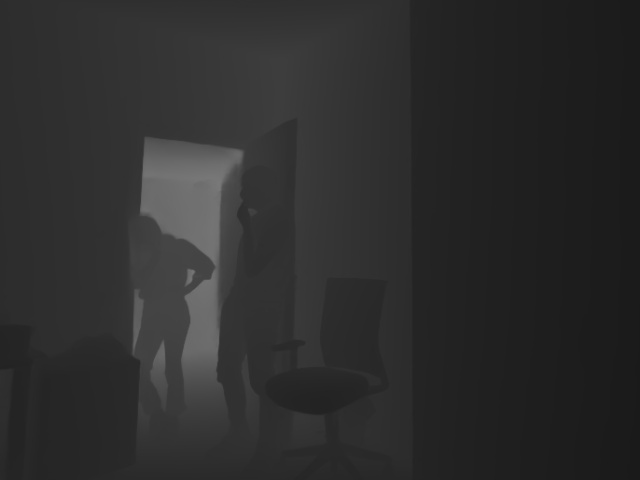
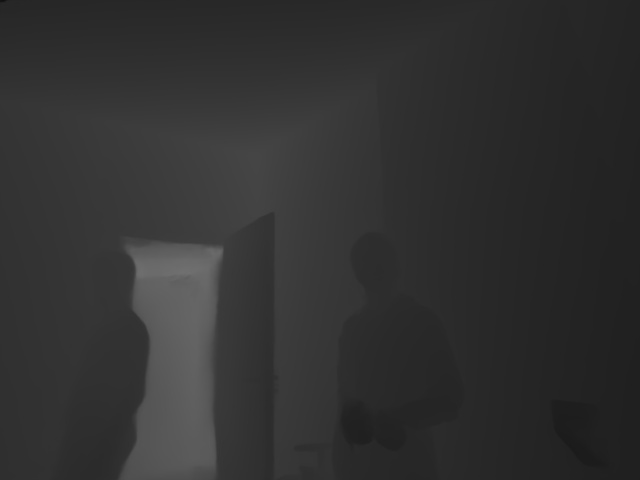
vertical pitch angle joint, code cleanup

Changed region(s): [[0.1875, 0.2812, 0.375, 1.0]]

diff --git a/stiching.py b/stiching.py
@@ -1,0 +1,145 @@
+import os
+import cv2
+import numpy as np
+import json
+import torch
+from ultralytics import YOLO
+from ultralytics import SAM
+import sys
+sys.path.append('/home/g/gajdosech2/Depth-Anything-V2/metric_depth')
+from depth_anything_v2.dpt import DepthAnythingV2
+
+
+IMG_WIDTH = 640
+IMG_HEIGHT = 480
+PANORAMA_WIDTH = 1700
+PANORAMA_HEIGHT = 700
+
+LEFT_YAW = -60
+RIGHT_YAW = 60
+BOTTOM_PITCH = 0
+TOP_PITCH = 40
+
+PIXEL_LOG_FILE = 'panorama_pixel_log.json'
+YOLO_PATH = '/home/g/gajdosech2/image-stitching-supeglue/yolov8l-worldv2.pt'
+DE_PATH = '/home/g/gajdosech2/Depth-Anything-V2/checkpoints/depth_anything_v2_metric_hypersim_vitl.pth'
+SAM_PATH = '/home/g/gajdosech2/image-stitching-supeglue/sam2.1_l.pt'
+DEPTHS_OUT_WORK_DIR = 'depths/'
+MASKS_OUT_WORK_DIR = 'masks/'
+PANORAMAS_OUT_WORK_DIR = ''
+
+
+def load_data_log(data_log_path):
+    image_data = []
+    with open(data_log_path, 'r') as file:
+        for line in file:
+            parts = line.strip().split()
+            image_data.append({
+                'timestamp': float(parts[1]),
+                'filename': parts[2]
+            })
+    return image_data
+
+def load_angles_log(angles_log_path):
+    angles_data = []
+    with open(angles_log_path, 'r') as file:
+        for line in file:
+            parts = line.strip().split()
+            angles_data.append({
+                'timestamp': float(parts[1]),
+                'yaw': float(parts[2]),
+                'pitch': float(parts[3])
+            })
+    return angles_data
+
+def find_closest_angle(timestamp, angles_data):
+    return min(angles_data, key=lambda x: abs(x['timestamp'] - timestamp))
+
+def map_yaw_to_x(yaw):
+    return int(((yaw - LEFT_YAW) / (RIGHT_YAW - LEFT_YAW)) * (PANORAMA_WIDTH - IMG_WIDTH))
+
+def map_pitch_to_y(pitch):
+    return int((1 - ((pitch - BOTTOM_PITCH) / (TOP_PITCH - BOTTOM_PITCH))) * (PANORAMA_HEIGHT - IMG_HEIGHT))
+
+def place_image_on_panorama(panorama, image, x_start, y_start, log_array, image_filename, timestamp):
+    img_height, img_width = image.shape[:2]
+    x_end = min(x_start + img_width, PANORAMA_WIDTH)
+    y_end = min(y_start + img_height, PANORAMA_HEIGHT)
+
+    for x in range(x_start, x_end):
+        for y in range(y_start, y_end):
+            panorama[y, x] = image[y - y_start, x - x_start]
+            log_index = y * PANORAMA_WIDTH + x
+            log_array[log_index] = {'filename': image_filename, 'timestamp': timestamp, 'image_x': x - x_start, 'image_y': y - y_start}
+
+def stitch_panorama(images_folder, data_log_path, angles_log_path, M):
+    image_data = load_data_log(data_log_path)
+    angles_data = load_angles_log(angles_log_path)
+
+    rgb_panorama = np.zeros((PANORAMA_HEIGHT, PANORAMA_WIDTH, 3), dtype=np.uint8)
+    depth_panorama = np.zeros((PANORAMA_HEIGHT, PANORAMA_WIDTH, 3), dtype=np.uint8) 
+    log_array = [{'filename': None, 'timestamp': None, 'image_x': None, 'image_y': None} for _ in range(PANORAMA_WIDTH * PANORAMA_HEIGHT)]
+
+    model_configs = {
+        'vits': {'encoder': 'vits', 'features': 64, 'out_channels': [48, 96, 192, 384]},
+        'vitb': {'encoder': 'vitb', 'features': 128, 'out_channels': [96, 192, 384, 768]},
+        'vitl': {'encoder': 'vitl', 'features': 256, 'out_channels': [256, 512, 1024, 1024]},
+        'vitg': {'encoder': 'vitg', 'features': 384, 'out_channels': [1536, 1536, 1536, 1536]}
+    }
+
+    depth_anything = DepthAnythingV2(**{**model_configs['vitl'], 'max_depth': 20})
+    depth_anything.load_state_dict(torch.load(DE_PATH, map_location='cpu'))
+    depth_anything = depth_anything.to('cuda').eval()
+
+    for i in range(0, len(image_data), M):
+        image_info = image_data[i]
+        timestamp = image_info['timestamp']
+        filename = image_info['filename'].replace('.ppm', '.jpg')
+
+        closest_angle = find_closest_angle(timestamp, angles_data)
+        yaw = closest_angle['yaw']
+        pitch = closest_angle['pitch']
+        x_start = map_yaw_to_x(yaw)
+        y_start = map_pitch_to_y(pitch)
+
+        image_path = os.path.join(images_folder, filename)
+
+        if not os.path.exists(image_path):
+            continue
+        image = cv2.imread(image_path)
+    
+        depth = depth_anything.infer_image(image, 518)
+        depth = (depth - 0.0) / (20.0 - 0.0) * 255.0
+        depth = depth.astype(np.uint8)
+        depth = np.repeat(depth[..., np.newaxis], 3, axis=-1)
+        cv2.imwrite(DEPTHS_OUT_WORK_DIR + filename, depth)
+
+        place_image_on_panorama(depth_panorama, depth, x_start, y_start, log_array, filename, timestamp)
+        place_image_on_panorama(rgb_panorama, image, x_start, y_start, log_array, filename, timestamp) 
+
+    cv2.imwrite(PANORAMAS_OUT_WORK_DIR + 'rgb_panorama.jpg', rgb_panorama)
+    cv2.imwrite(PANORAMAS_OUT_WORK_DIR + 'depth_panorama.jpg', depth_panorama)
+
+    yolo_world = YOLO(YOLO_PATH) 
+    yolo_world.set_classes(['person'])
+    print("\nYOLOWorld Prediction")
+    classes = yolo_world.predict(rgb_panorama, conf=0.6)[0]
+    classes.save(PANORAMAS_OUT_WORK_DIR + 'person_detection.jpg')
+
+    sam = SAM(SAM_PATH)
+    print("\nSAM Prediction")
+    masks = sam(rgb_panorama, bboxes=classes.boxes.xyxy.detach().cpu().numpy())[0]
+
+    for i, mask in enumerate(masks.masks.data.detach().cpu().numpy()):
+        cv2.imwrite(MASKS_OUT_WORK_DIR + f'mask_{i}.png', mask.astype(np.uint8) * 255)
+
+    with open(PIXEL_LOG_FILE, 'w') as log_file:
+        json.dump(log_array, log_file)
+
+
+if __name__ == '__main__':
+    images_folder = '/home/g/gajdosech2/datasets/icup/UKBA/leftCamera/'
+    data_log_path = '/home/g/gajdosech2/datasets/icup/UKBA/leftCamera/data.log'
+    angles_log_path = '/home/g/gajdosech2/datasets/icup/UKBA/neckAngles/data.log'
+    M = 30
+    stitch_panorama(images_folder, data_log_path, angles_log_path, M)

diff --git a/segmentation.py b/segmentation.py
@@ -3,16 +3,18 @@ import cv2
 import json
 import random
 import open3d as o3d
-import matplotlib.pyplot as plt
+
+IMG_WIDTH = 640
+IMG_HEIGHT = 480
+PANORAMA_WIDTH = 1300
+PANORAMA_HEIGHT = 480
 
 FX = 400
 FY = 400
 CX = 320.0
 CY = 240.0 
-PANORAMA_WIDTH = 1300
-PANORAMA_HEIGHT = 480
-IMAGE_WIDTH = 640
-IMAGE_HEIGHT = 480
+
+OUT_WORK_DIR = ''
 
 
 def apply_mask_and_sample(panorama, mask, log_data):
@@ -31,7 +33,7 @@ def process_depth_and_create_pointcloud(depth_path, image_pixels):
     depth_image = cv2.imread(depth_path, cv2.IMREAD_UNCHANGED)
     masked_depth = cv2.bitwise_and(depth_image, depth_image, mask=image_pixels)
 
-    cv2.imwrite("masked_depth.jpg", masked_depth)
+    cv2.imwrite(OUT_WORK_DIR + 'masked_depth.jpg', masked_depth)
 
     point_cloud = []
     for y in range(depth_image.shape[0]):
@@ -50,11 +52,11 @@ def process_depth_and_create_pointcloud(depth_path, image_pixels):
     o3d.visualization.draw_geometries([o3d_cloud])
 
 
-if __name__ == "__main__":
-    panorama_path = "/home/g/gajdosech2/image-stitching-supeglue/rgb_panorama.jpg"
-    mask_path = "/home/g/gajdosech2/image-stitching-supeglue/mask_0.png"
-    log_file_path = "/home/g/gajdosech2/image-stitching-supeglue/panorama_pixel_log.json"
-    depths_folder = "/home/g/gajdosech2/image-stitching-supeglue/depths/"
+if __name__ == '__main__':
+    panorama_path = '/home/g/gajdosech2/image-stitching-supeglue/rgb_panorama.jpg'
+    mask_path = '/home/g/gajdosech2/image-stitching-supeglue/mask_0.png'
+    log_file_path = '/home/g/gajdosech2/image-stitching-supeglue/panorama_pixel_log.json'
+    depths_folder = '/home/g/gajdosech2/image-stitching-supeglue/depths/'
 
     with open(log_file_path, 'r') as log_file:
         log_data = json.load(log_file)
@@ -63,23 +65,20 @@ if __name__ == "__main__":
     mask = cv2.imread(mask_path, cv2.IMREAD_GRAYSCALE)
 
     log_entry, masked_panorama = apply_mask_and_sample(panorama, mask, log_data)
-    plt.imshow(cv2.cvtColor(masked_panorama, cv2.COLOR_BGR2RGB))
-    plt.title("Masked Panorama")
-    plt.show()
-    cv2.imwrite("masked_panorama.jpg", masked_panorama)
+    cv2.imwrite(OUT_WORK_DIR + 'masked_panorama.jpg', masked_panorama)
 
-    image_pixels = np.zeros((IMAGE_HEIGHT, IMAGE_WIDTH), dtype=np.uint8)
+    image_pixels = np.zeros((IMG_HEIGHT, IMG_WIDTH), dtype=np.uint8)
     for x in range(0, masked_panorama.shape[1]):
         for y in range(0, masked_panorama.shape[0]):
             rgb_value = np.sum(masked_panorama[y, x])
             if rgb_value:
                 log_index = y * PANORAMA_WIDTH + x
-                image_x = int(log_data[log_index]["image_x"])
-                image_y = int(log_data[log_index]["image_y"])
+                image_x = int(log_data[log_index]['image_x'])
+                image_y = int(log_data[log_index]['image_y'])
                 image_pixels[image_y, image_x] = 1
 
-    cv2.imwrite("hmm.jpg", image_pixels * 255)
+    cv2.imwrite(OUT_WORK_DIR + 'image_pixels.jpg', image_pixels * 255)
 
-    depth_path = f"{depths_folder}/{log_entry['filename']}"
+    depth_path = f'{depths_folder}/{log_entry['filename']}'
 
     process_depth_and_create_pointcloud(depth_path, image_pixels)

diff --git a/convert.py b/convert.py
@@ -1,32 +1,27 @@
 import os
 from PIL import Image
 
+
 def batch_convert_ppm_to_jpg(input_folder, output_folder, nth_image):
-    # Create the output folder if it does not exist
     if not os.path.exists(output_folder):
         os.makedirs(output_folder)
 
-    # Get all .ppm files in the folder and sort them in canonical order
     ppm_files = sorted([f for f in os.listdir(input_folder) if f.lower().endswith('.ppm')])
 
-    # Process every nth file in the sorted list
     for i in range(0, len(ppm_files), nth_image):
         filename = ppm_files[i]
         input_path = os.path.join(input_folder, filename)
 
-        # Open and convert the image to RGB, then save as .jpg
         with Image.open(input_path) as img:
-            img = img.convert("RGB")
-            output_path = os.path.join(output_folder, f"{os.path.splitext(filename)[0]}.jpg")
-            img.save(output_path, "JPEG")
-            print(f"Converted {filename} to {output_path}")
+            img = img.convert('RGB')
+            output_path = os.path.join(output_folder, f'{os.path.splitext(filename)[0]}.jpg')
+            img.save(output_path, 'JPEG')
+            print(f'Converted {filename} to {output_path}')
 
-# Paths to the input and output folders
-input_folder = '/home/g/gajdosech2/icup/sequence3ppm'
-output_folder = '/home/g/gajdosech2/icup/sequence3'
 
-# Specify the nth image to convert (e.g., every 3rd image)
-nth_image = 1
-
-# Run the batch conversion
-batch_convert_ppm_to_jpg(input_folder, output_folder, nth_image)
+if __name__ == '__main__':
+    input_folder = '/home/g/gajdosech2/icup/sequence3ppm'
+    output_folder = '/home/g/gajdosech2/icup/sequence3'
+    # Specify the nth image to convert (e.g., every 3rd image)
+    M = 1
+    batch_convert_ppm_to_jpg(input_folder, output_folder, M)
